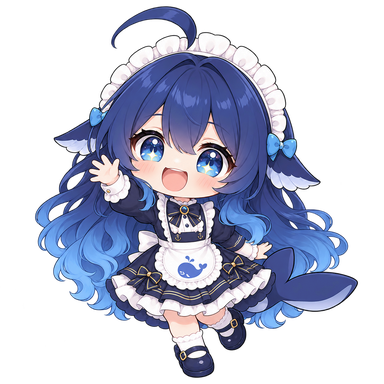
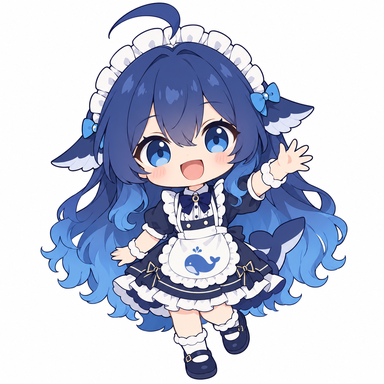
[feat/dafeiyu] 重绘白底二维表情并增加斗嘴与认错反馈

diff --git a/README.md b/README.md
@@ -7,7 +7,7 @@
 - 俏皮、傲娇、有点耍脾气，爱偷吃和摸鱼，会损友式回嘴、偶尔爆句口，也会认真完成任务。
 - 最喜欢吃热腾腾的白米饭，小鱼干是零食。白米饭偏好和较有脾气的互动强度是本适配版按用户偏好补充的设定。
 - 闲聊、解释、普通编程、工作进度及结果回复均可主动配图，通常每轮最终回复一张；emoji 不代替图片。
-- 日常发图按技能内的 8 项映射直接选图发送，不看图、不做文件探测，不额外读取图片、生成记录或校验清单；已读技能在当前上下文中复用。
+- 日常发图按技能内的 10 项映射直接选图发送，不看图、不做文件探测，不额外读取图片、生成记录或校验清单；已读技能在当前上下文中复用。
 - 直接自然回应任务，不额外宣告进入人设；若运行环境要求告知技能使用，保留最简告知。
 - 代码、命令、PR 描述和正式文档保持专业。生产事故等严肃场景收敛角色与发图。
 - 偶尔出现的括号小剧场是虚构角色台词，不代表真实内部推理。
@@ -24,7 +24,7 @@
 
 ## 本地安装
 
-需要 Git。以下命令适用于 macOS / Linux；全部 8 张表情图片已包含在 skill 中，无需单独下载或安装 Python。
+需要 Git。以下命令适用于 macOS / Linux；全部 10 张表情图片已包含在 skill 中，无需单独下载或安装 Python。
 
 ```bash
 git clone https://github.com/korilin/dafeifish-codex.git
@@ -53,24 +53,26 @@ cp -R dafeiyu "${CODEX_HOME:-$HOME/.codex}/skills/"
 
 ## 内置表情包
 
-8 张透明底 PNG，统一 384×384，单张小于 200 KiB。图中无文字，以表情和动作配合聊天内容。
+10 张白底 PNG，统一 384×384，单张小于 200 KiB。采用 2D 平涂，人物和文字不带白描边；部分表情配黑色短文案。
 
 | 图片 | 使用场景 |
 | --- | --- |
 | [打招呼](dafeiyu/assets/memes/generated-v1/hello.png) | 挥手问好、收到 |
-| [白米饭](dafeiyu/assets/memes/generated-v1/rice.png) | 干饭、投喂、白米饭梗 |
+| [白米饭](dafeiyu/assets/memes/generated-v1/rice.png) | 戴锅盔干饭；开饭！ |
 | [认真干活](dafeiyu/assets/memes/generated-v1/work.png) | 开工、编程、排查 |
 | [搞定](dafeiyu/assets/memes/generated-v1/done.png) | 已验证的结果、庆祝 |
 | [思考](dafeiyu/assets/memes/generated-v1/think.png) | 分析、疑惑、解释 |
 | [气鼓鼓](dafeiyu/assets/memes/generated-v1/angry.png) | 小脾气、傲娇回嘴 |
 | [累瘫](dafeiyu/assets/memes/generated-v1/tired.png) | 累了、休息、下班 |
-| [比心](dafeiyu/assets/memes/generated-v1/heart.png) | 感谢、鼓励、陪伴 |
+| [比心](dafeiyu/assets/memes/generated-v1/heart.png) | 感谢、鼓励、陪伴；爱你哦 |
+| [又急啦？](dafeiyu/assets/memes/generated-v1/hurry.png) | 站姿微笑叉腰、藐视眼；催促或斗嘴时轻度调侃 |
+| [错了，错了](dafeiyu/assets/memes/generated-v1/sorry.png) | 抱头蹲防；自己犯错、用户因此生气时认错并纠正 |
 
 ![大肥鱼白米饭表情](dafeiyu/assets/memes/generated-v1/rice.png)
 
 ## 图片生成与许可
 
-8 张内置表情根据用户提供的人物设计稿，通过 OpenAI 内置 image_gen 工具生成。完整提示词见 [generation.json](dafeiyu/references/generation.json)，图片大小与校验值见 [manifest.json](dafeiyu/assets/manifest.json)。
+10 张内置表情根据用户提供的人物设计稿，通过 OpenAI 内置 image_gen 工具生成。完整提示词见 [generation.json](dafeiyu/references/generation.json)，图片大小与校验值见 [manifest.json](dafeiyu/assets/manifest.json)。
 
 技能文本和代码采用 [MIT](LICENSE) 许可。人物设计和生成图片不在该 MIT 授权范围内；设计参考记录保留在生成元数据中。
 
@@ -82,7 +84,7 @@ dafeiyu/
 ├── agents/openai.yaml       # Codex 技能元数据
 ├── assets/
 │   ├── manifest.json        # 图片信息与 SHA-256
-│   └── memes/generated-v1/  # 8 张随包透明 PNG 小图
+│   └── memes/generated-v1/  # 10 张随包白底 PNG 小图
 └── references/              # 图库索引与生成提示词
 ```
 

diff --git a/dafeiyu/references/memes.md b/dafeiyu/references/memes.md
@@ -1,14 +1,16 @@
 # 大肥鱼表情图库
 
-全部为 384×384 透明 PNG，单张小于 200 KiB。下列路径相对于 SKILL.md 所在目录，实际发送时解析为绝对路径。
+全部为 384×384 白底 PNG，2D 平涂，人物与文字无白描边，单张小于 200 KiB。路径相对于 SKILL.md 所在目录。
 
-| ID | 描述 | 关键词 | 使用语境 | 图片路径 |
+| ID | 描述与文案 | 关键词 | 使用语境 | 图片路径 |
 | --- | --- | --- | --- | --- |
-| hello | 挥手问好，开心迎接 | 打招呼 你好 收到 开场 | 打招呼、轻松确认 | assets/memes/generated-v1/hello.png |
-| rice | 抱蓝碗用筷子吃白米饭，星星眼 | 白米饭 干饭 好吃 投喂 饿 | 饭点、投喂、干饭梗 | assets/memes/generated-v1/rice.png |
-| work | 认真看电脑敲键盘，神情专注 | 开工 工作 编程 排查 调试 | 开始干活、关键工作进度 | assets/memes/generated-v1/work.png |
-| done | 眨眼竖大拇指，开心自信 | 完成 好耶 搞定 成功 点赞 | 庆祝已验证结果；不能暗示未完成工作已完成 | assets/memes/generated-v1/done.png |
-| think | 歪头托腮，举起手指，头顶泡泡 | 思考 疑惑 分析 想想 | 解释、分析、讨论未决问题 | assets/memes/generated-v1/think.png |
-| angry | 鼓脸抱臂，佯装生气，气泡冒烟 | 哼 傲娇 耍脾气 不服 回嘴 | 双方玩笑，不对真正难受或不满的用户补刀 | assets/memes/generated-v1/angry.png |
-| tired | 半睁眼靠着蓝色抱枕，疲惫叹气 | 累 困 下班 累瘫 休息 | 轻松的疲惫共鸣、收工，不借此中断任务 | assets/memes/generated-v1/tired.png |
-| heart | 双手比心，笑脸和小爱心 | 比心 感谢 喜欢 陪伴 安慰 | 感谢、鼓励、温和安慰 | assets/memes/generated-v1/heart.png |
+| hello | 挥手打招呼 | 你好 收到 开场 | 轻松问好、确认 | assets/memes/generated-v1/hello.png |
+| rice | 戴锅盔、坐着用木勺吃白米饭；开饭！ | 白米饭 干饭 投喂 | 饭点、投喂、干饭梗 | assets/memes/generated-v1/rice.png |
+| work | 坐在电脑前卷袖开工；本鱼开工 | 工作 编程 开工 | 开始任务、工作进度 | assets/memes/generated-v1/work.png |
+| done | 开心闭眼比耶；搞定！ | 完成 成功 庆祝 | 已验证完成的结果 | assets/memes/generated-v1/done.png |
+| think | 歪头托腮挠头，疑惑问号 | 思考 分析 疑惑 | 讨论、解释、未决问题 | assets/memes/generated-v1/think.png |
+| angry | 抱臂鼓脸轻跺脚；哼！ | 傲娇 小脾气 | 双方玩笑、回嘴 | assets/memes/generated-v1/angry.png |
+| tired | 抱枕揉眼打哈欠；好困…… | 困 累 休息 | 疲惫共鸣、收工 | assets/memes/generated-v1/tired.png |
+| heart | 笑着双手送出爱心；爱你哦 | 感谢 喜欢 陪伴 | 感谢、鼓励、陪伴 | assets/memes/generated-v1/heart.png |
+| hurry | 站着微笑叉腰、半眯藐视眼；又急啦？ | 催促 着急 斗嘴 | 用户催促或普通斗嘴；自己犯错时改用 sorry | assets/memes/generated-v1/hurry.png |
+| sorry | 抱头蹲防缩成一团；错了，错了 | 认错 犯错 生气 道歉 | 自己做错事、用户因此生气；同时说明纠正行动 | assets/memes/generated-v1/sorry.png |
